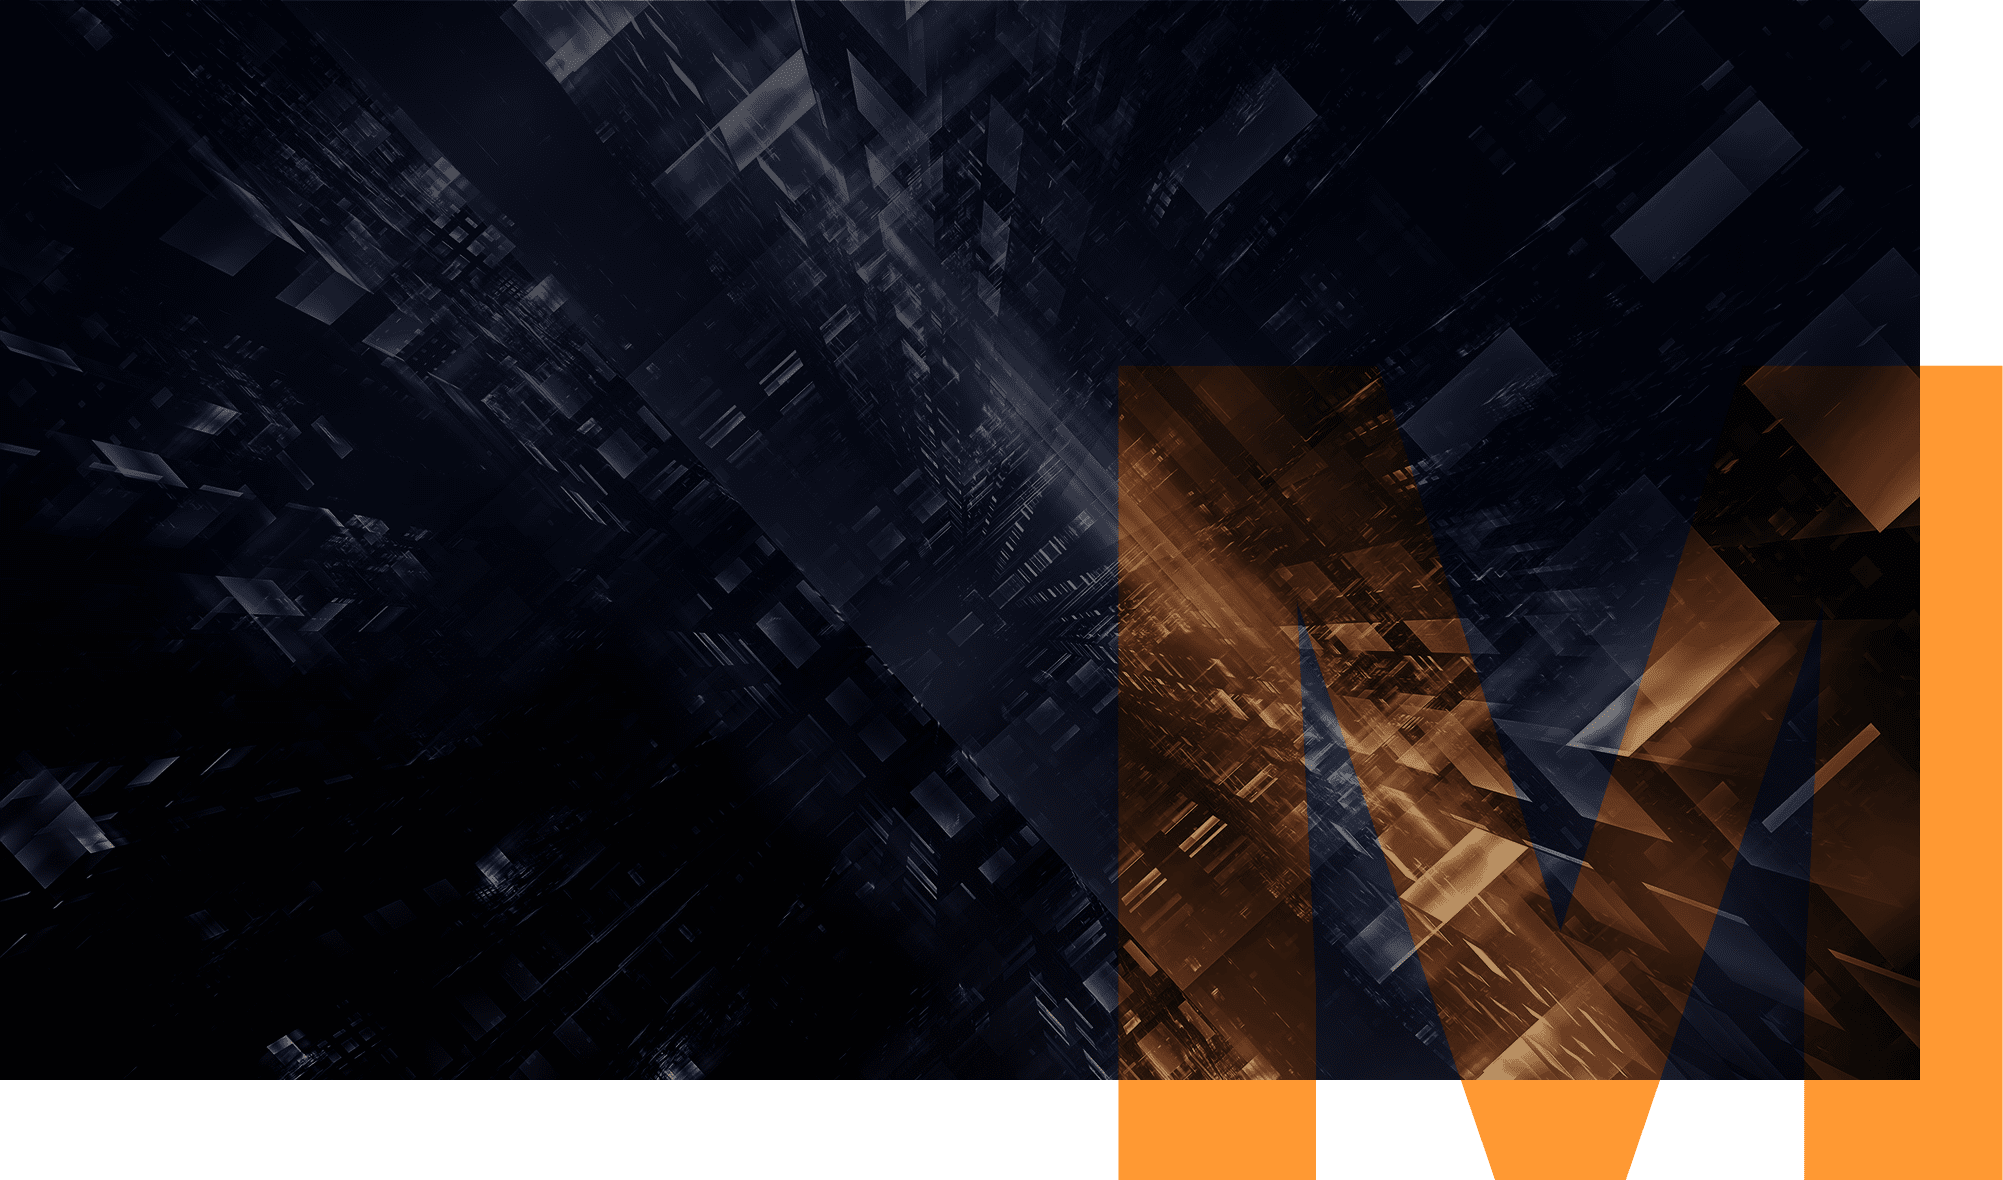
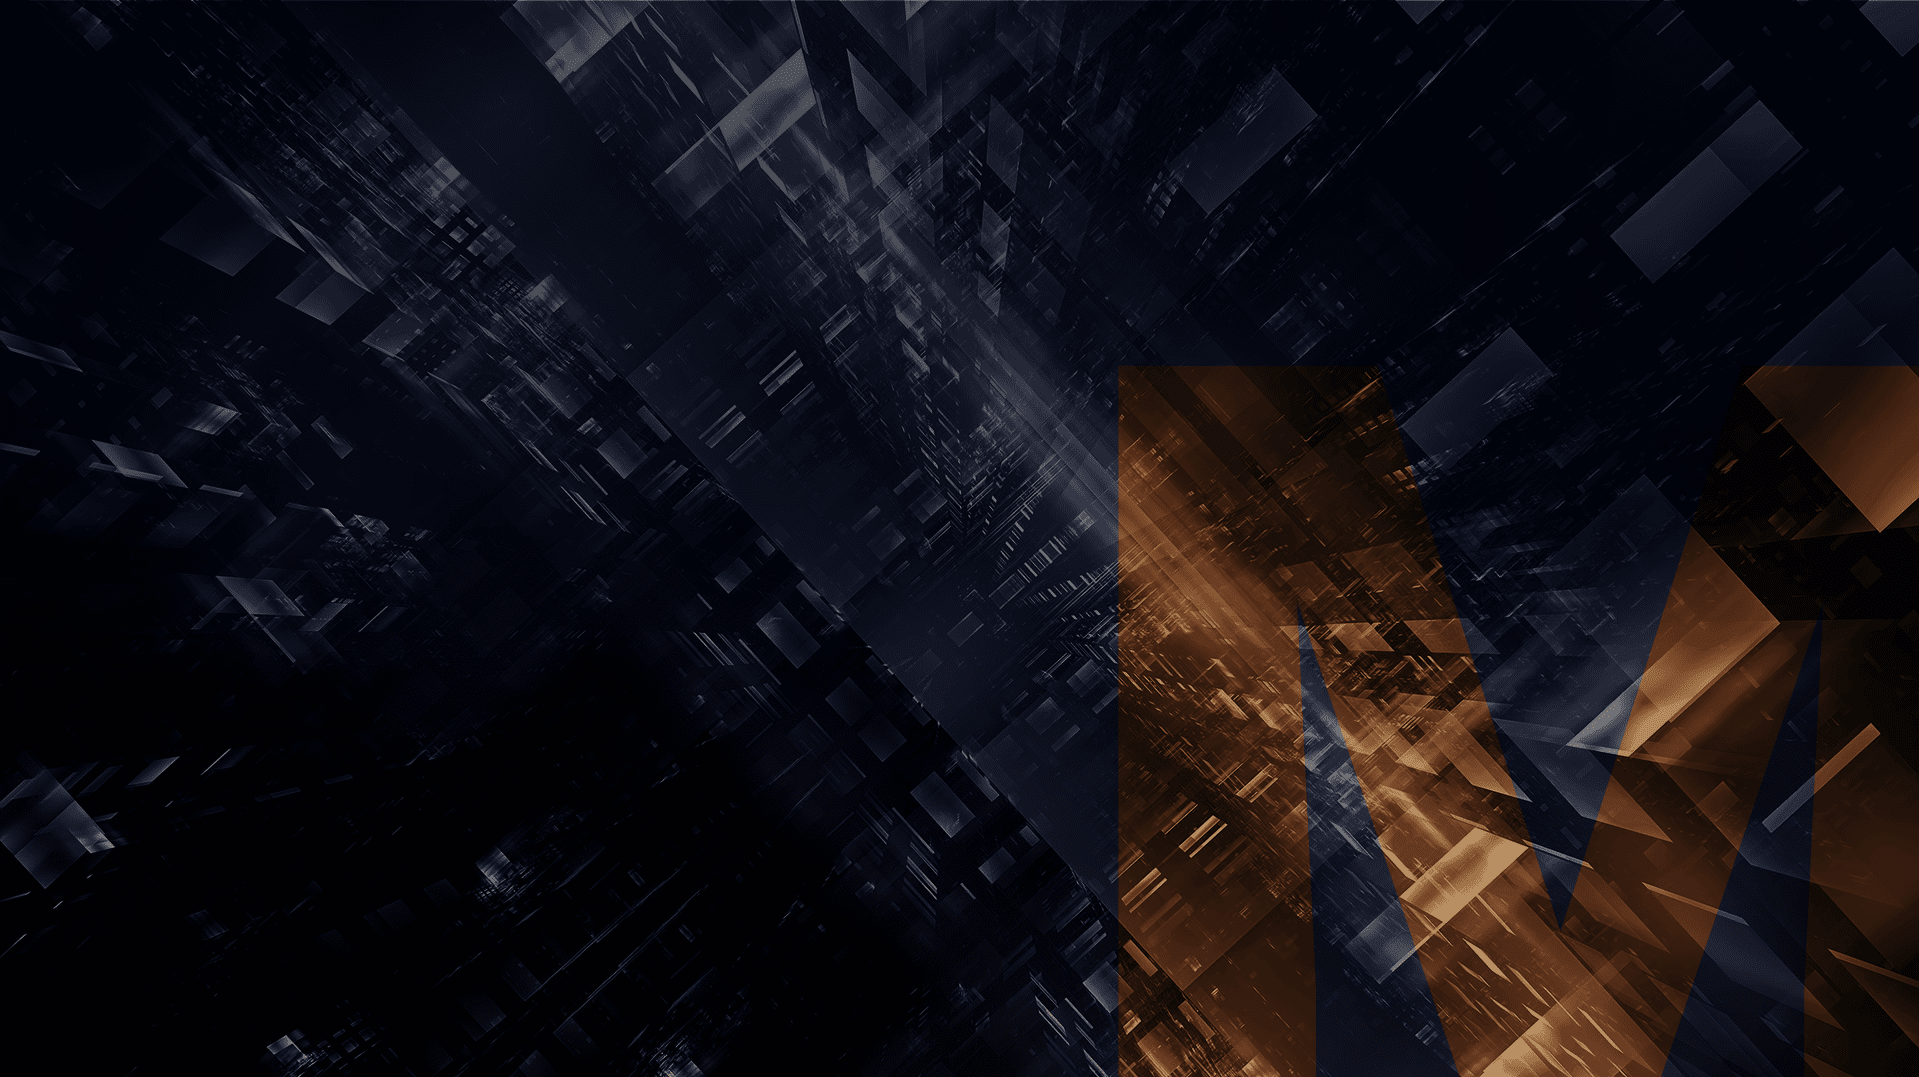
feat(section): add contact section

diff --git a/src/components/pages/home/ContactSection.tsx b/src/components/pages/home/ContactSection.tsx
@@ -1,0 +1,103 @@
+'use client';
+
+import Section from '@/components/commons/Section';
+import { ComponentProps, FC, PropsWithChildren } from 'react';
+import { motion, Variants } from 'motion/react';
+
+export default function ContactSection() {
+  return (
+    <Section className="bg-[url('/contact_banner.png')] bg-cover relative ">
+      <div className="absolute bottom-[15%] left-[50px]">
+        <ul className="w-full h-fit flex flex-col gap-[30px]">
+          <ContactItem title="Company.">
+            <a href="mailto: support@maxius.io" target="_blank">
+              support@maxius.io
+            </a>
+          </ContactItem>
+          <ContactItem title="Warranty.">
+            <a href="#" target="_blank">
+              Learn more &gt;
+            </a>
+          </ContactItem>
+          <ContactItem title="Technical support.">
+            <a href="mailto: support@maxius.io" target="_blank">
+              support@maxius.io
+            </a>
+          </ContactItem>
+        </ul>
+      </div>
+    </Section>
+  );
+}
+
+interface IContactItemProps extends ComponentProps<'li'>, PropsWithChildren {
+  title: string;
+}
+
+const ContactItem: FC<IContactItemProps> = ({ title, children }) => {
+  return (
+    <li className="flex flex-col gap-3 items-start">
+      <motion.h2
+        variants={titleVariants}
+        initial="offscreen"
+        whileInView="onscreen"
+        viewport={{ amount: 0.2 }}
+        className="font-extrabold text-[20.5px] text-white"
+      >
+        {title}
+      </motion.h2>
+      <motion.div
+        variants={contentVariants}
+        initial="offscreen"
+        whileInView="onscreen"
+        viewport={{ amount: 0.2 }}
+        className="text-[13.5px] px-[12.5px] text-white font-light py-[7px]"
+      >
+        {children}
+      </motion.div>
+    </li>
+  );
+};
+
+const titleVariants: Variants = {
+  offscreen: {
+    opacity: 0,
+    y: 100,
+
+    transition: {
+      duration: 0.5,
+      ease: 'easeOut',
+    },
+  },
+  onscreen: {
+    opacity: 1,
+    y: 0,
+
+    transition: {
+      duration: 0.2,
+      ease: 'easeOut',
+    },
+  },
+};
+
+const contentVariants: Variants = {
+  offscreen: {
+    opacity: 0,
+    x: -100,
+
+    transition: {
+      duration: 0.5,
+      ease: 'easeOut',
+    },
+  },
+  onscreen: {
+    opacity: 1,
+    x: 0,
+
+    transition: {
+      duration: 0.5,
+      delay: 0.5,
+      ease: 'easeOut',
+    },
+  },
+};

diff --git a/src/app/page.tsx b/src/app/page.tsx
@@ -2,6 +2,7 @@ import FeatureSection from '@/components/pages/home/FeatureSection';
 import HeroSection from '@/components/pages/home/HeroSection';
 import AboutSection from '@/components/pages/home/AboutSection';
 import StorySection from '@/components/pages/home/StorySection';
+import ContactSection from '@/components/pages/home/ContactSection';
 
 export default function Home() {
   return (
@@ -10,6 +11,7 @@ export default function Home() {
       <FeatureSection />
       <AboutSection />
       <StorySection />
+      <ContactSection />
     </>
   );
 }
